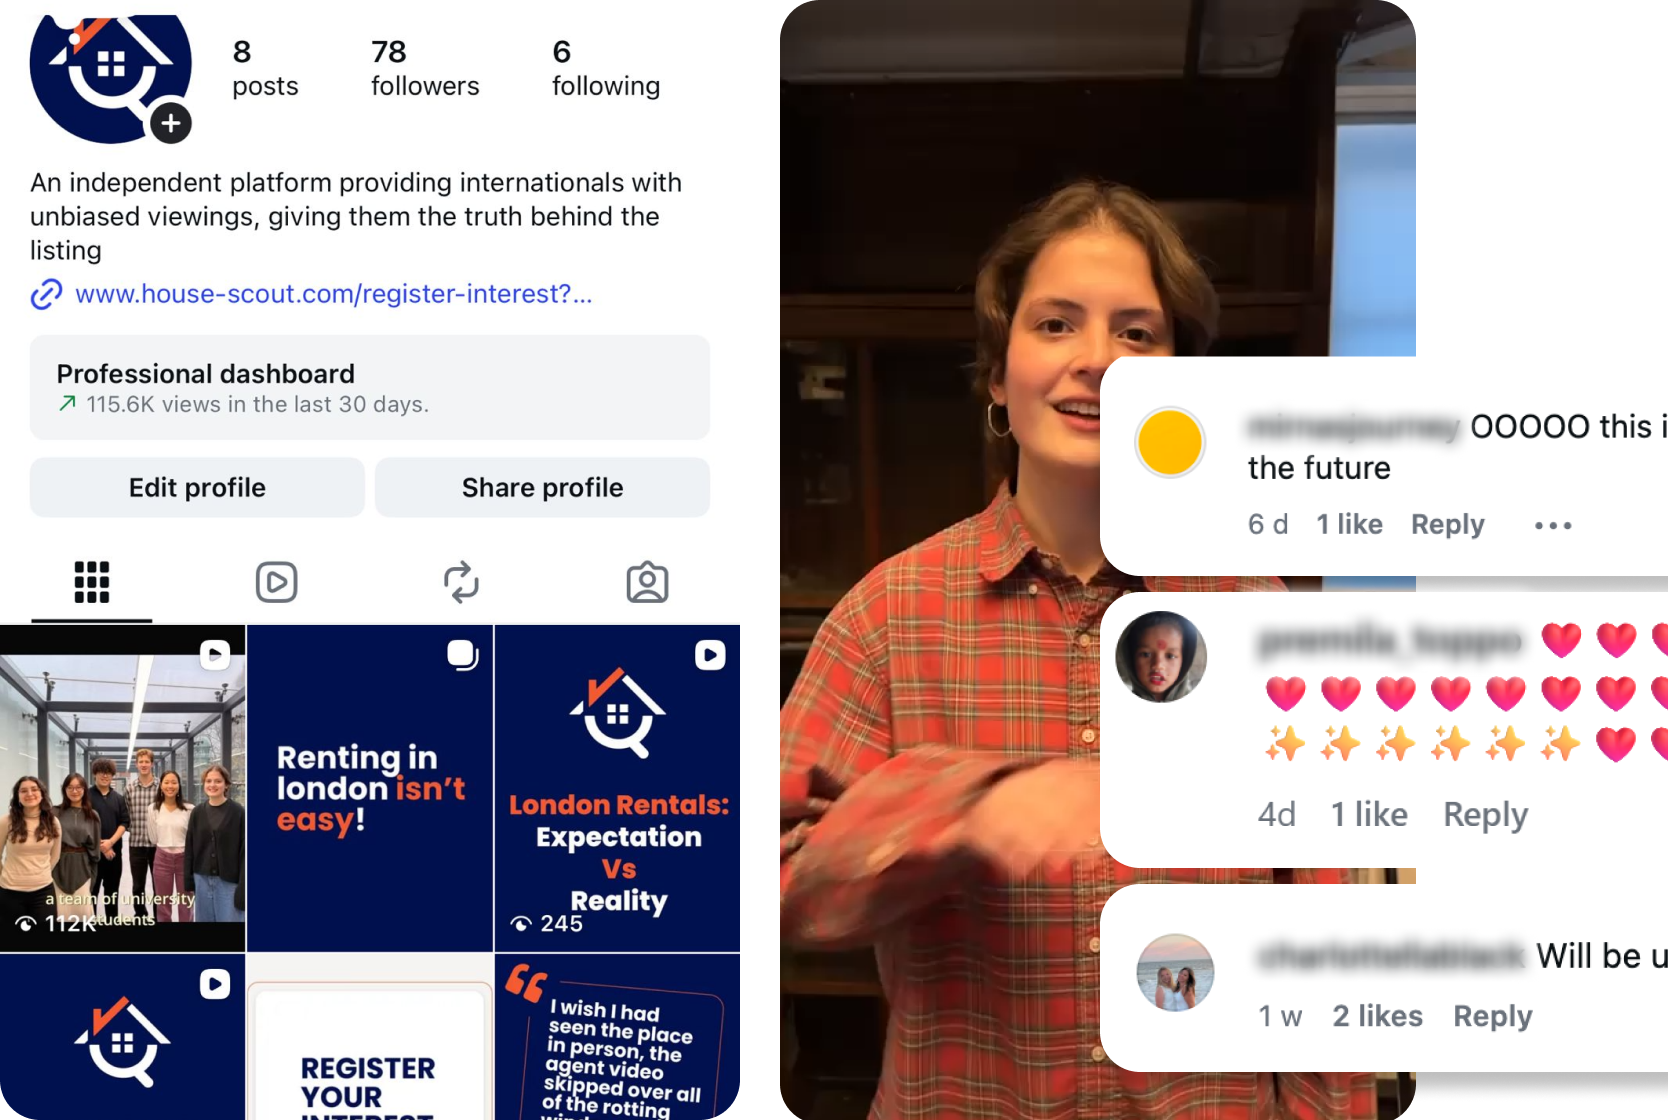
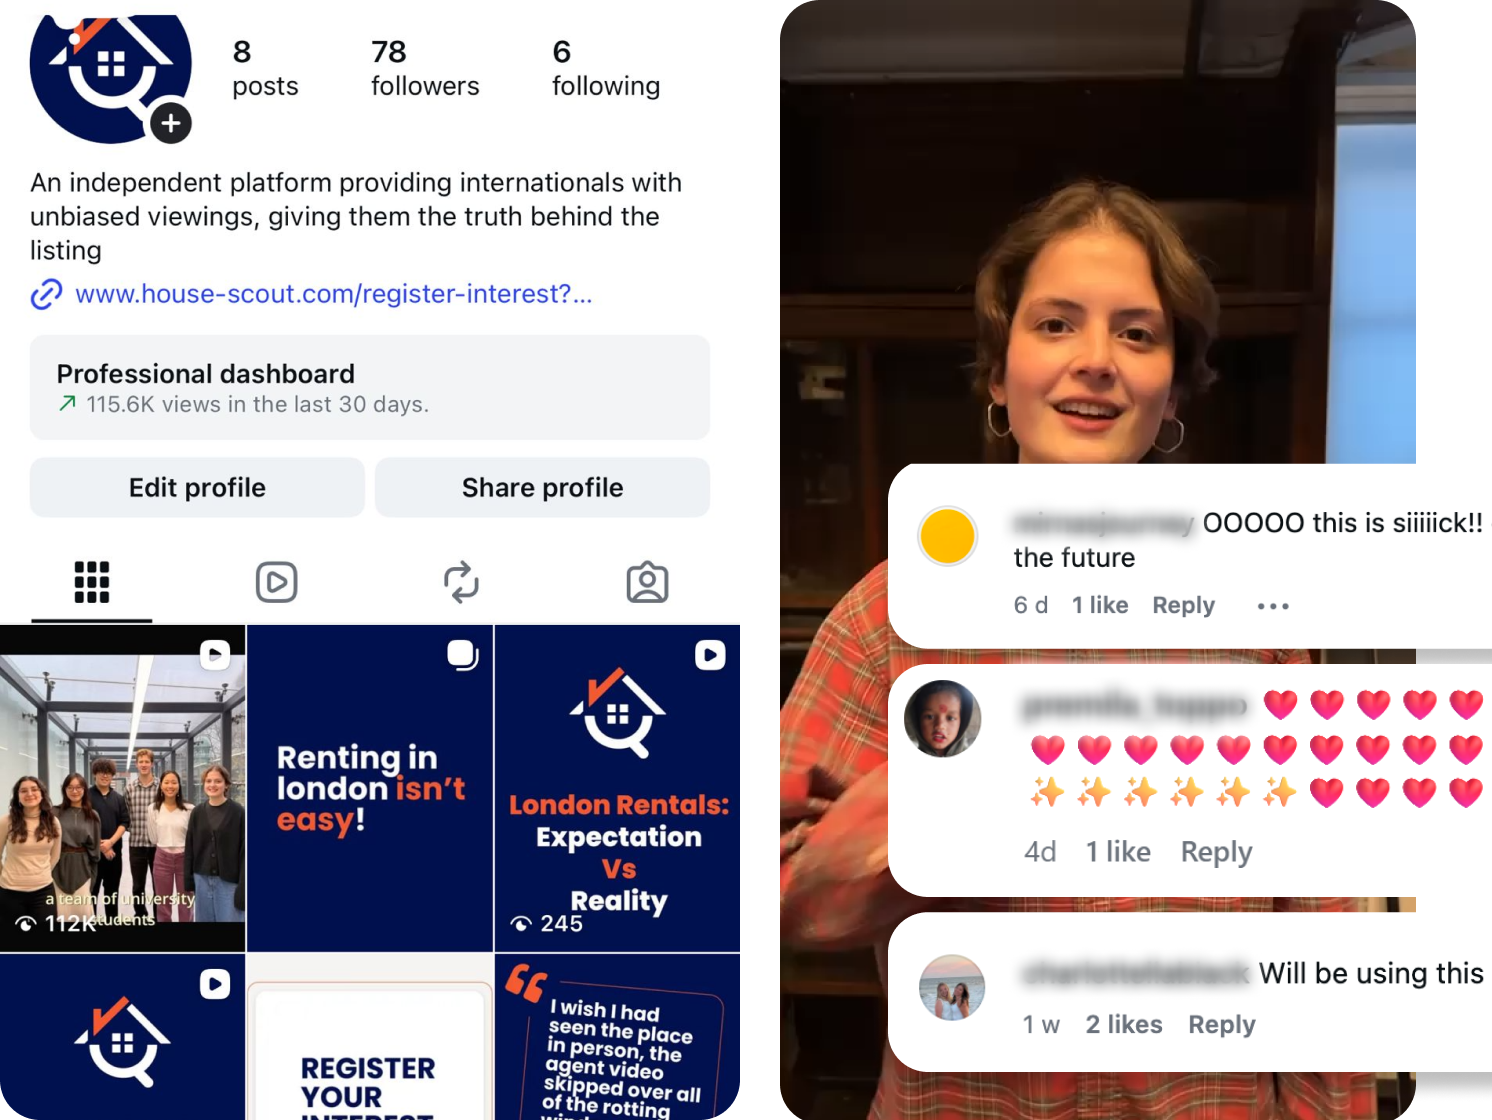
update

diff --git a/arancha-portfolio/src/data/projects.ts b/arancha-portfolio/src/data/projects.ts
@@ -32,6 +32,8 @@ export type Project = {
   tile_ratio: 'square' | 'portrait' | 'landscape';
   has_video: boolean;
   pdf_url?: string | string[];
+  /** Optional external link (e.g. a deployed tool/demo) shown as its own button next to the report link. */
+  demo_url?: { label: string; url: string };
 };
 
 export type OtherProject = {
@@ -133,7 +135,7 @@ export const projects: Project[] = [
       '/images/projects/nest-assured/nest.png',
       '/images/projects/nest-assured/hero josh.png',
       '/images/projects/nest-assured/device.png',
-      '/images/projects/nest-assured/exploded.png'
+      '/images/projects/nest-assured/hero anne.png'
     ],
     info: 'Developed as part of a university group project for the Industrial Design Engineering module. The challenge was to design and engineer a battery-powered, hand-operated device for home, garden, or educational use — one that appeals to a broad market while addressing the needs of an underserved user group. *Note: Google were not engaged in any consultancy or collaborative capacity with this project; the outcome is in no way endorsed by them.',
     problem: 'ADHD affects over 22 million people worldwide, leading to challenges with attention, organization, and memory. Many individuals struggle with misplaced items, disrupting their daily routines and increasing stress. Existing solutions often rely on complex ecosystems or smartphone apps, which can be overwhelming or ineffective.',
@@ -230,6 +232,7 @@ export const projects: Project[] = [
     tile_ratio: 'landscape',
     has_video: false,
     pdf_url: '/reports/A Strategic Engineering Analysis of Modular Desalination Plant Investments under Demand Uncertainty.pdf',
+    demo_url: { label: 'Try the Decision Support Tool', url: 'https://masters-v1fu.onrender.com/' },
   },
 
   // ─── 04 OLIVE ──────────────────────────────────────────────────────────
